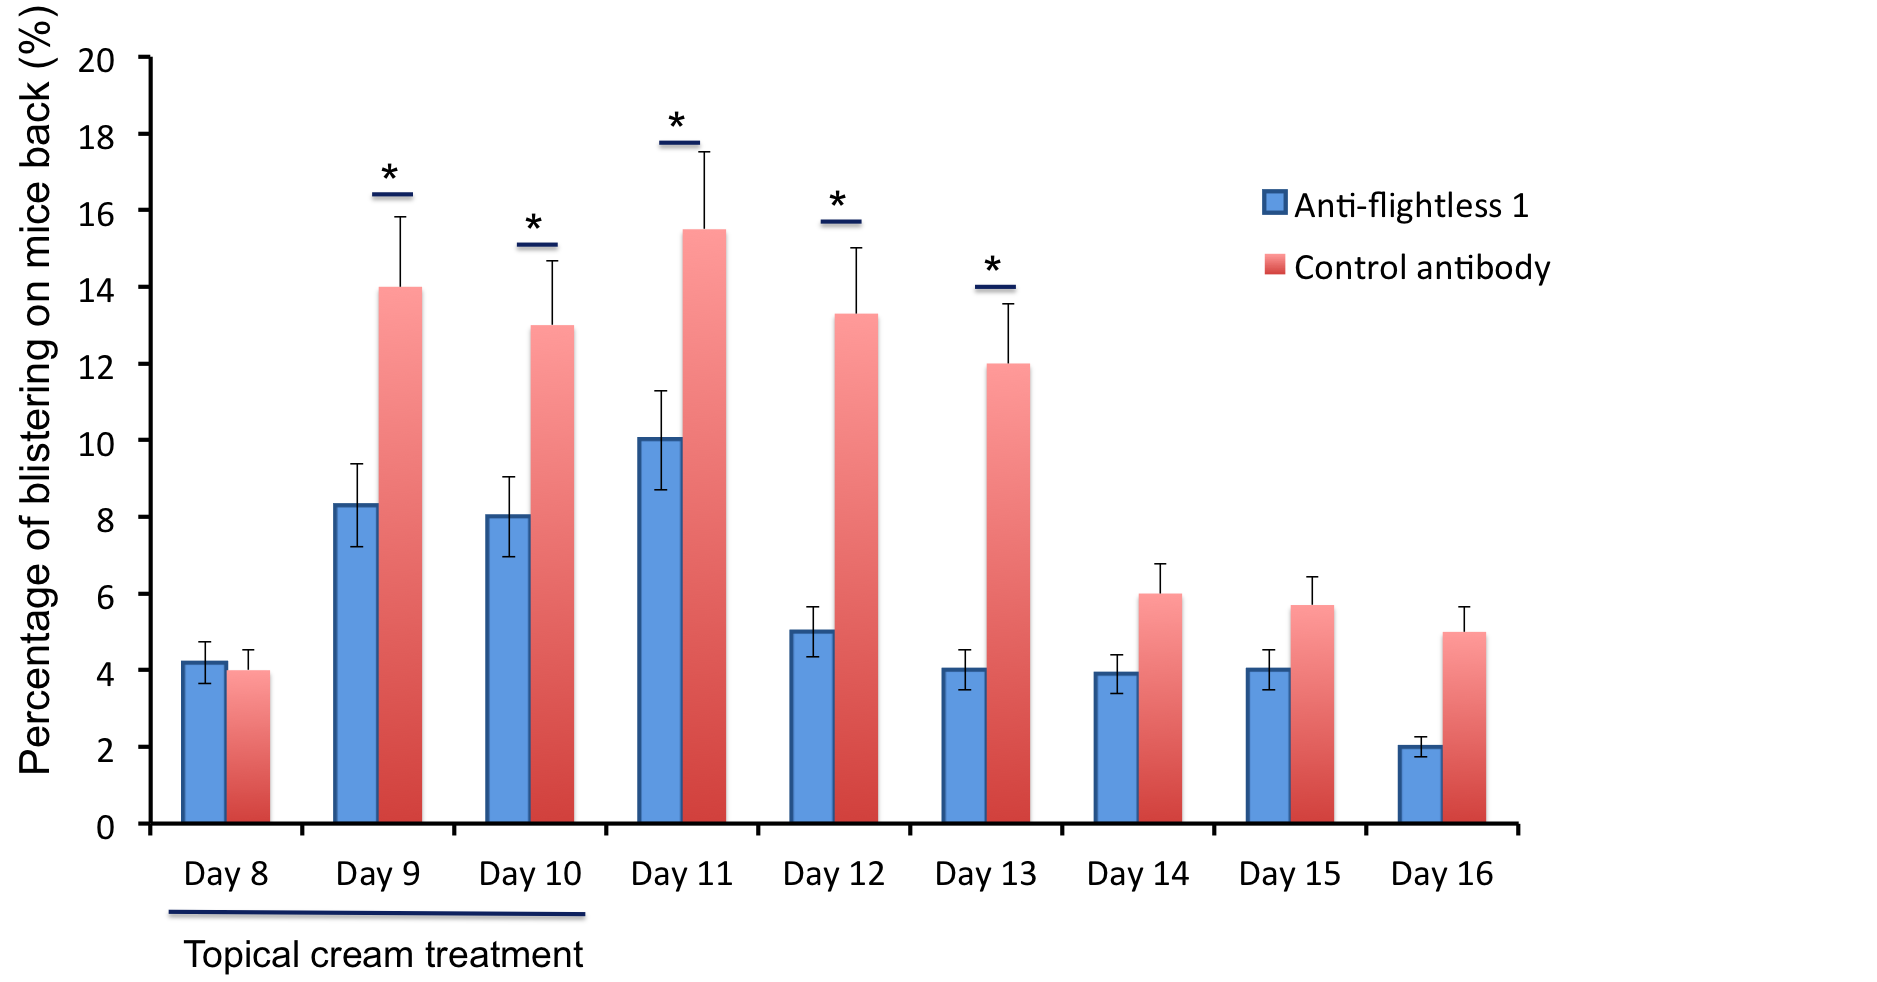
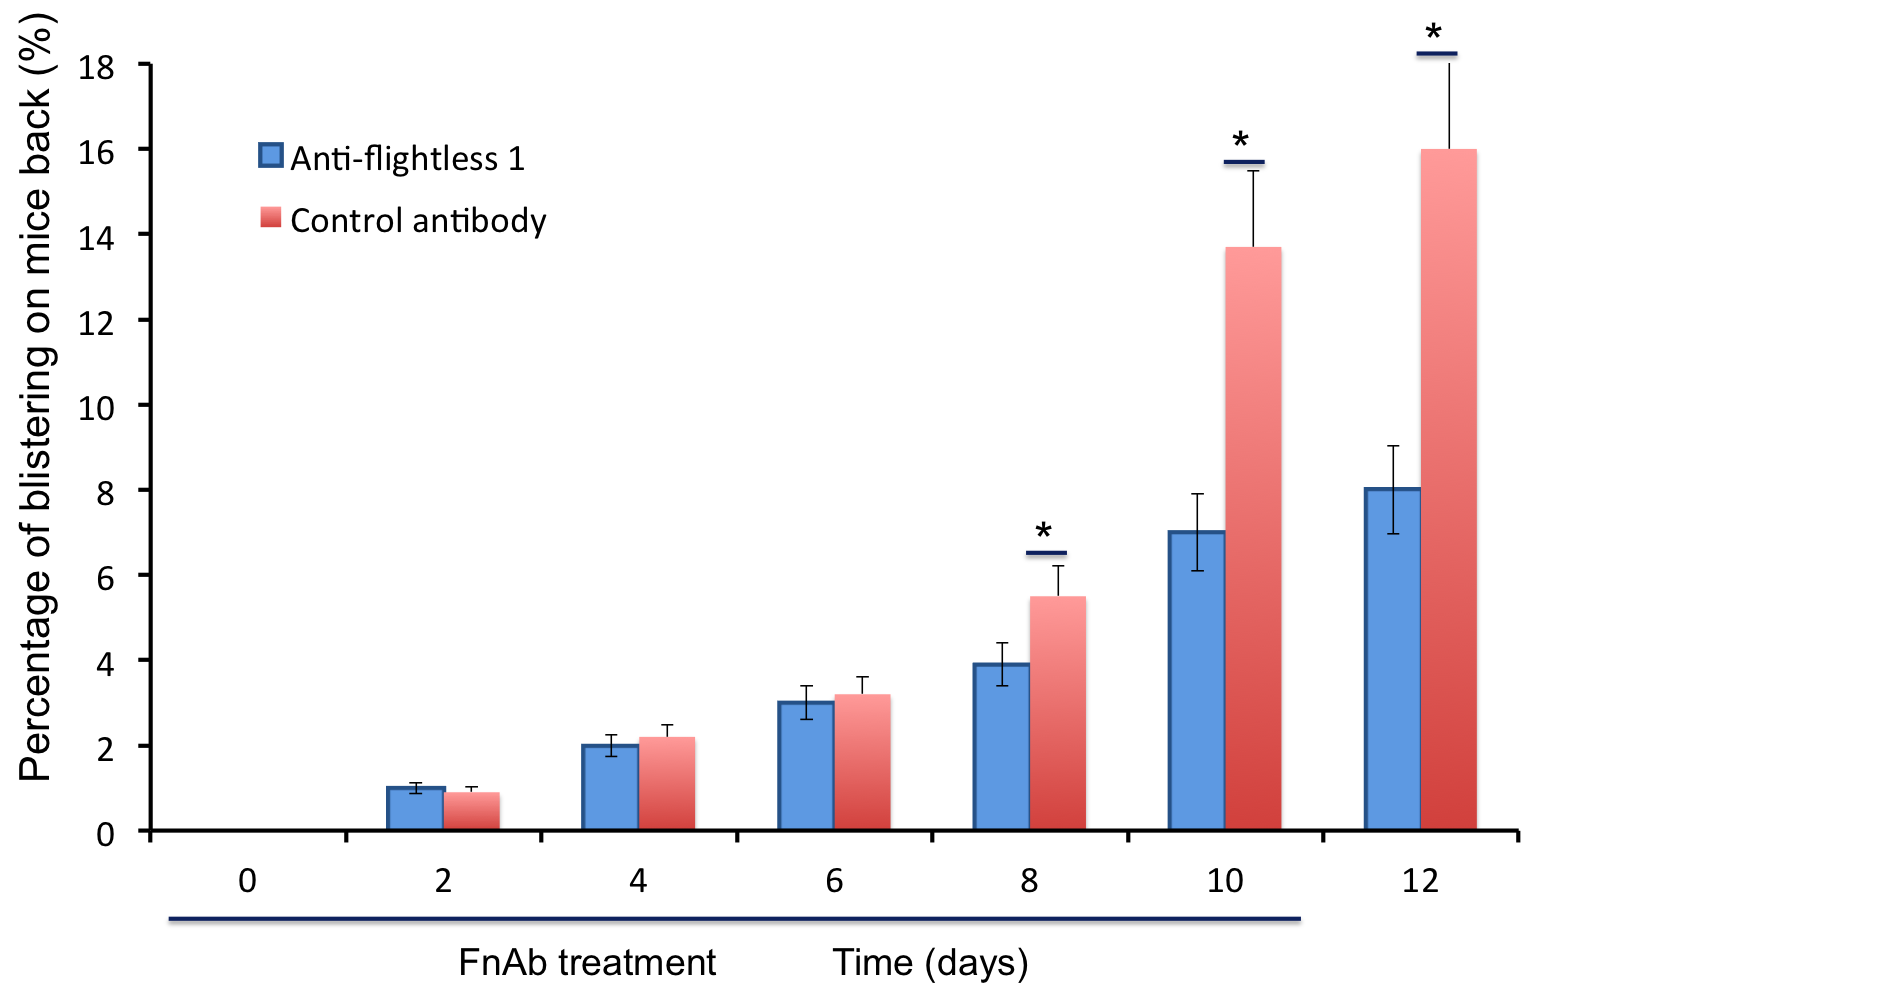
abgregen update

diff --git a/flightless_I/index.html b/flightless_I/index.html
@@ -48,7 +48,8 @@ Importantly, neutralising antibodies to Flightless I have been shown to improve 
 <div class="row">
 	<div class="col-sm-12 col-md-8 col-md-offset-2">
 
-		<h4 class="cp-graph-title">Treatment of early stage blisters with neutralising antibodies to Flightless I improves healing in a mouse model of epidermolysis bullosa</h4>
+		<h4 class="cp-graph-title">Repeated application of neutralising antibodies to Flightless I reduces the severity of blister formation in a mouse model of epidermolysis bullosa
+</h4>
 
 		<img src="{{ site.baseurl }}public/images/graph1.png" class="img-responsive img-thumbnail" alt="Responsive image">
 	</div>
@@ -59,8 +60,7 @@ Importantly, neutralising antibodies to Flightless I have been shown to improve 
 
 <p class="lead small-text">
 
-Anti-flightless antibodies or IgG dose-matched control antibodies formulated in a cream vehicle were applied onto the skin of EB mice for three consecutive days at the start of blister formation (Days 8-10). EB mice treated with anti-flightless antibodies had significantly fewer blister lesions and lower histological blister scores compared with EB mice treated with control IgG antibody (Kopecki et al., 2012 J Invest Dermatol 133:1008-16).
-
+Anti-flightless antibodies or IgG dose-matched control antibodies formulated in a cream vehicle were applied onto the skin of EB mice on alternate days during blister development (Days 0-10). EB mice treated with anti-Flightless I antibodies had significantly fewer blister lesions, decreased extent of blistering (Days 8-12) and lower histological blister scores compared with EB mice treated with control IgG antibody (Kopecki et al., 2012 J Invest Dermatol 133:1008-16).
 </p>
 
 <br>

diff --git a/_site/flightless_I/index.html b/_site/flightless_I/index.html
@@ -155,7 +155,8 @@ Importantly, neutralising antibodies to Flightless I have been shown to improve 
 <div class="row">
 	<div class="col-sm-12 col-md-8 col-md-offset-2">
 
-		<h4 class="cp-graph-title">Treatment of early stage blisters with neutralising antibodies to Flightless I improves healing in a mouse model of epidermolysis bullosa</h4>
+		<h4 class="cp-graph-title">Repeated application of neutralising antibodies to Flightless I reduces the severity of blister formation in a mouse model of epidermolysis bullosa
+</h4>
 
 		<img src="/public/images/graph1.png" class="img-responsive img-thumbnail" alt="Responsive image">
 	</div>
@@ -166,8 +167,7 @@ Importantly, neutralising antibodies to Flightless I have been shown to improve 
 
 <p class="lead small-text">
 
-Anti-flightless antibodies or IgG dose-matched control antibodies formulated in a cream vehicle were applied onto the skin of EB mice for three consecutive days at the start of blister formation (Days 8-10). EB mice treated with anti-flightless antibodies had significantly fewer blister lesions and lower histological blister scores compared with EB mice treated with control IgG antibody (Kopecki et al., 2012 J Invest Dermatol 133:1008-16).
-
+Anti-flightless antibodies or IgG dose-matched control antibodies formulated in a cream vehicle were applied onto the skin of EB mice on alternate days during blister development (Days 0-10). EB mice treated with anti-Flightless I antibodies had significantly fewer blister lesions, decreased extent of blistering (Days 8-12) and lower histological blister scores compared with EB mice treated with control IgG antibody (Kopecki et al., 2012 J Invest Dermatol 133:1008-16).
 </p>
 
 <br>
